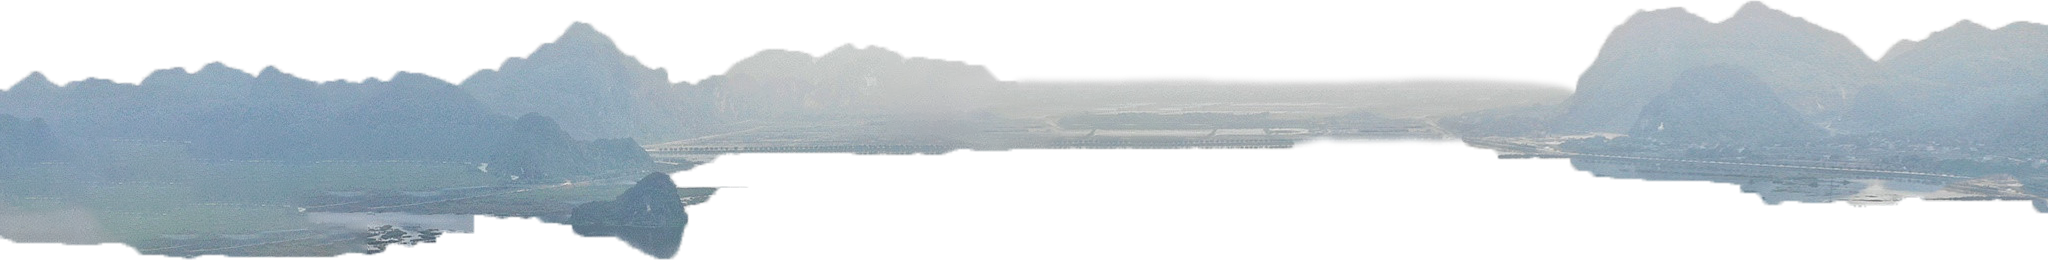
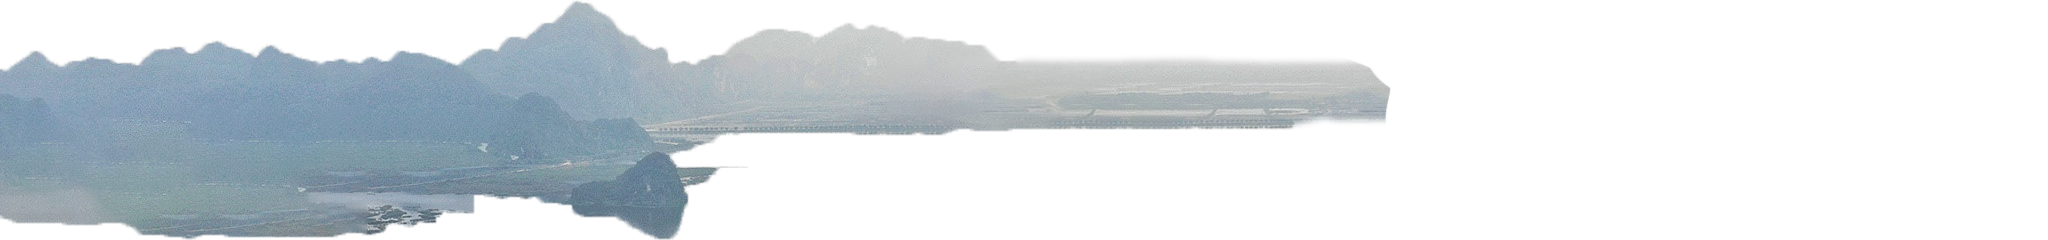
2 and 6

diff --git a/Tour-De-Viet/src/data.js b/Tour-De-Viet/src/data.js
@@ -1,0 +1,49 @@
+import bg_6 from './assets/6/background.png';
+import f1_6 from './assets/6/front1.png';
+import f2_6 from './assets/6/front2.png';;
+import f3_6 from './assets/6/front3.png';
+import f4_6 from './assets/6/front4.png';
+import l1_6 from './assets/6/left1.png';
+import l2_6 from './assets/6/left2.png';
+import b1_6 from './assets/6/back1.png';
+import b2_6 from './assets/6/back2.png';
+import r1_6 from './assets/6/right1.png';
+import bg_2 from './assets/2/background.png';
+import l1_2 from './assets/2/left1.png';
+import l2_2 from './assets/2/left2.png';
+import l3_2 from './assets/2/left3.png';
+import l4_2 from './assets/2/cloud.png';
+import ar_2 from './assets/2/arr.png';
+import f1_2 from './assets/2/front1.png';
+import r1_2 from './assets/2/right1.png';
+import r2_2 from './assets/2/right2.png';
+import r3_2 from './assets/2/right3.png';
+export const arr = [
+    [
+        { src: bg_6, alt: "bg", rotation: "0",    speedx: "0",    speedy: "0",    speedz: "0",    w:'2800px', z: '1', ctop: 'calc(50%)',  cleft: 'calc(50%)'},
+        { src: f1_6, alt: "f1", rotation: "0.1",  speedx: "0.03", speedy: "0.02", speedz: "0.05",             z: '6', ctop: 'calc(50% + 60px)', cleft: 'calc(50% + 120px )' },
+        { src: f2_6, alt: "f2", rotation: "0",    speedx: "0.01", speedy: "0.01", speedz: "0.01",             z: '5', ctop: 'calc(50% + 250px)', cleft: 'calc(50% - 60px)'},
+        { src: f3_6, alt: "f3", rotation: "0.01", speedx: "0.02", speedy: "0.02", speedz: "0.07",             z: '4', ctop: 'calc(50% + 210px)', cleft: 'calc(50% - 60px)' },
+        { src: f4_6, alt: "f4", rotation: "0",    speedx: "0.01", speedy: "0.01", speedz: "0.01",             z: '4', ctop: 'calc(50% + 230px)', cleft: 'calc(50% + 400px)'},
+        { src: l1_6, alt: "l1", rotation: "0.01", speedx: "0.02", speedy: "0.01", speedz: "0.09",             z: '4', ctop: 'calc(50% - 60px)', cleft: 'calc(50%  - 950px)' },
+        { src: l2_6, alt: "l2", rotation: "0.01", speedx: "0.02", speedy: "0.01", speedz: "0.09",             z: '3', ctop: 'calc(50% - 100px)',cleft: 'calc(50% - 900px)'},
+        { src: b1_6, alt: "b1", rotation: "0",  speedx: "0.01", speedy: "0.01", speedz: "0.02",               z: '2', ctop: 'calc(50% - 180px)', cleft: 'calc(50% - 40px)' },
+        { src: b2_6, alt: "b2", rotation: "0",  speedx: "0.01", speedy: "0.01", speedz: "0.02",    w:'1200px',h:'200px',           z: '1', ctop: 'calc(50% - 210px)', cleft: 'calc(50% + 600px)' },
+        { src: r1_6, alt: "r1", rotation: "0.0",  speedx: "0.015",speedy: "0.01", speedz: "0.09",             z: '1', ctop: 'calc(50% - 100px)', cleft: 'calc(50% + 925px)' },
+    ],
+    [
+        { src: bg_2, alt: "bg", rotation: "0",    speedx: "0",    speedy: "0",    speedz: "0",                 z: '1', ctop: 'calc(50% - 120px)', cleft: 'calc(50%)'},
+        { src: l1_2, alt: "l1", rotation: "0.1",  speedx: "0.01", speedy: "0.02", speedz: "0.05",  w:'750px',  z: '4', ctop: 'calc(50% + 70px)',  cleft: 'calc(50% - 750px )' },
+        { src: l2_2, alt: "l2", rotation: "0",    speedx: "0.01", speedy: "0.01", speedz: "0.01",  w:'30px',   z: '6', ctop: 'calc(50% + 450px)', cleft: 'calc(50% - 670px)'},
+        { src: l3_2, alt: "l3", rotation: "0.01", speedx: "0.02", speedy: "0.02", speedz: "0.07",  w:'400px',  z: '4', ctop: 'calc(50% - 150px)', cleft: 'calc(50% - 900px)' },
+        { src: l4_2, alt: "l4", rotation: "0.2",    speedx: "0.04", speedy: "0.02", speedz: "0.02",            z: '2', ctop: 'calc(50% - 70px)',  cleft: 'calc(50% + 20px)'},
+        { src: ar_2, alt: "ar", rotation: "0.01", speedx: "0.02", speedy: "0.01", speedz: "0.09",              z: '3', ctop: 'calc(50% + 260px)', cleft: 'calc(50%  )' },
+        { src: f1_2, alt: "f1", rotation: "0",    speedx: "0.01", speedy: "0.01", speedz: "0.01",  w:'2200px', z: '5', ctop: 'calc(50% + 320px)', cleft: 'calc(50% - 5px)' },
+        { src: r1_2, alt: "r1", rotation: "0.01", speedx: "0.02", speedy: "0.01", speedz: "0.09",  w:'400px',  z: '5', ctop: 'calc(50% + 100px)', cleft: 'calc(50% + 900px)'},
+        { src: r2_2, alt: "r2", rotation: "0",  speedx: "0.01", speedy: "0.01", speedz: "0.02",    w:'200px',  z: '5', ctop: 'calc(50% + 350px)', cleft: 'calc(50% + 250px)' },
+        { src: r2_2, alt: "r2", rotation: "0",  speedx: "0.01", speedy: "0.01", speedz: "0.02",    w:'200px',  z: '2', ctop: 'calc(50% + 350px)', cleft: 'calc(50% - 1095px)' },
+        { src: r2_2, alt: "r2", rotation: "0",  speedx: "0.01", speedy: "0.01", speedz: "0.02",    w:'200px',  z: '2', ctop: 'calc(50% + 350px)', cleft: 'calc(50% + 1040px)' },
+        { src: r3_2, alt: "r3", rotation: "0",  speedx: "0.01", speedy: "0.01", speedz: "0.02",    w:'850px',  z: '3', ctop: 'calc(50% + 40px )', cleft: 'calc(50% + 600px)' },
+      ]
+
+];

diff --git a/Tour-De-Viet/src/Parallax.jsx b/Tour-De-Viet/src/Parallax.jsx
@@ -1,34 +1,59 @@
 import './Parallax.css';
-import bg from './assets/background.png';
-import flight from './assets/flight.png';
-import f1 from './assets/fog1.png';
-import f2 from './assets/fog2.png';
-import l1 from './assets/left1.png';
-import l2 from './assets/left2.png';
-import l3 from './assets/left3.png';
-import r1 from './assets/right1.png';
-import r2 from './assets/right2.png';
-import r3 from './assets/right3.png';
+import bg from './assets/3/background.png';
+import f1 from './assets/3/front1.png';
+import f2 from './assets/3/front2.png';
+import f3 from './assets/3/front3.png';
+import f4 from './assets/3/front4.png';
+import o1 from './assets/3/object.png';
 
-function ParallaxPage() {
+
+export default function ParallaxPage() {
+  const arr = [
+    { src: bg, alt: "bg", rotation: "0",    speedx: "0",    speedy: "0",    speedz: "0",     width:'2800px',z: '1',  ctop: 'calc(50% )', cleft: 'calc(50% )'},
+    { src: f1, alt: "f1", rotation: "0.1",  speedx: "0.01", speedy: "0.02", speedz: "0.05",  width:'100px',z: '6',  ctop: 'calc(50% + 150px)', cleft: 'calc(50% )'},
+    { src: f2, alt: "f2", rotation: "0",    speedx: "0.01", speedy: "0.01", speedz: "0.01",  width:'100px',z: '5',  ctop: 'calc(50% + 150px)', cleft: 'calc(50% )'},
+    { src: f3, alt: "f3", rotation: "0.01", speedx: "0.02", speedy: "0.02", speedz: "0.07",  width:'100px',z: '4',  ctop: 'calc(50% + 150px)', cleft: 'calc(50% )'},
+    { src: f4, alt: "f4", rotation: "0.2",  speedx: "0.04", speedy: "0.02", speedz: "0.02",  width:'1000px',z: '3', ctop: 'calc(50% + 150px)', cleft: 'calc(50% )'},
+    { src: o1, alt: "o1", rotation: "0.01", speedx: "0.02", speedy: "0.02", speedz: "0.07",  width:'100px',z: '2',  ctop: 'calc(50% + 150px)', cleft: 'calc(50% )'},
+  ];
   return (
     <main>
-      <img src={bg} alt="Background" data-rotation="0" data-speedx="0.02" data-speedy="0.11" data-speedz="0" className="parallax bg-img" />
-      <img src={f1} alt="Fog 1" data-rotation="0" data-speedx="0.02" data-speedy="0.11" data-speedz="0" className="parallax bg-fog1" />
-      <img src={flight} alt="Flight" data-rotation="0.1" data-speedx="0.195" data-speedy="0.06" data-speedz="0.11" className="parallax tw-flight" />
-      <img src={f2} alt="Fog 2" data-rotation="0" data-speedx="0.03" data-speedy="0.12" data-speedz="0" className="parallax bg-fog2" />
-      <div className="text parallax" data-rotation="0.3" data-speedx="0.07" data-speedy="0.19" data-speedz="0.3">
-        <h2>Hello World</h2>
-        <h1>This is parallax</h1>
+      {arr.map((element, index) => (
+        <ParallaxElement key={index} {...element} />
+      ))}
+      <div className="text parallax" data-rotation="0.3" data-speedx="0.07" data-speedy="0.19" data-speedz="0.3" 
+      style={{
+        position: 'absolute',
+        zIndex: 2,
+        top: 'calc(50% -  20px)',
+        left: 'calc(50% + 120px)',
+        textAlign: 'center',
+        textTransform: 'uppercase',
+        color: '#000',
+      }}>
+        <h2 style={{fontWeight:'100', fontSize:'3em' }}>Welcome to</h2>
+        <h1 style={{fontWeight:'800', fontSize:'7em', lineHeight:'0.99'}}>ha tay</h1>
       </div>
-      <img src={r3} alt="Right 3" data-rotation="0.1" data-speedx="0.06" data-speedy="0.02" data-speedz="0.12" className="parallax tw-right3" />
-      <img src={r1} alt="Right 1" data-rotation="0.2" data-speedx="0.04" data-speedy="0.06" data-speedz="0.06" className="parallax tw-right1" />
-      <img src={r2} alt="Right 2" data-rotation="0.4" data-speedx="0.05" data-speedy="0.01" data-speedz="0.09" className="parallax tw-right2" />
-      <img src={l3} alt="Left 3" data-rotation="0.5" data-speedx="0.07" data-speedy="0.02" data-speedz="0.13" className="parallax tw-left3" />
-      <img src={l2} alt="Left 2" data-rotation="0.1" data-speedx="0.05" data-speedy="0.01" data-speedz="0.08" className="parallax tw-left2" />
-      <img src={l1} alt="Left 1" data-rotation="0.2" data-speedx="0.03" data-speedy="0.01" data-speedz="0.05" className="parallax tw-left1" />
     </main>
   )
 }
 
-export default ParallaxPage
+function ParallaxElement({ src, alt, rotation, speedx, speedy, speedz, w, z, ctop, cleft,h}) {
+  return (
+    <img src={src} 
+    alt={alt} data-rotation={rotation} 
+    data-speedx={speedx} 
+    data-speedy={speedy} 
+    data-speedz={speedz} 
+    className={`parallax ${alt}`} 
+    style={{ 
+      position: 'absolute', 
+      zIndex: z, 
+      top: ctop, 
+      left: cleft, 
+      width:w,
+      height:h, 
+      objectFit:'fill'
+      }} />
+  );
+}

diff --git a/Tour-De-Viet/src/Parallax.css b/Tour-De-Viet/src/Parallax.css
@@ -5,93 +5,18 @@ main{
     overflow: hidden;
     display: flex;
 }
-.parallax{
-    pointer-events: none;
-}
 
-.bg-img{
-    position: absolute;
-    width: 2800px;
-    z-index: 1;
-    top: calc(50%);
-    left: calc(50%);
-}
-.bg-fog1{
-    position: absolute;
-    width: 2800px;
-    top: calc(50%);
-    left: calc(50%);
-    z-index: 4;
-}
-.bg-fog2{
-    position: absolute;
-    width: 2800px;
-    top: calc(50%);
-    left: calc(50%);
-    z-index: 2;
-}
-.tw-right3{
-    position: absolute;
-    top: calc(50% + 250px);
-    left: calc(50% + 200px);
-    z-index: 9;
-}
-.tw-right2{
-    position: absolute;
-    top: calc(50% + 300px);
-    left: calc(50% + 920px);
-    z-index: 2;
-}
-.tw-right1{
-    position: absolute;
-    top: calc(50% + 200px);
-    left: calc(50% + 800px);
-    z-index: 2;
-}
-.tw-left3{
-    position: absolute;
-    top: calc(50% + 425px);
-    left: calc(50% - 200px);
-    z-index: 2;
-}
-.tw-left2{
-    position: absolute;
-    top: calc(50% + 350px);
-    left: calc(50% - 600px);
-    z-index: 2;
-}
-.tw-left1{
-    position: absolute;
-    top: calc(50% + 300px);
-    left: calc(70px);
-    z-index: 2;
-}
-.tw-flight{
-    position: absolute;
-    top: calc(50% - 250px);
-    left: calc(50% - 300px);
-    z-index: 10;
-}
 
-.text{
-    position: absolute;
-    z-index: 9;
-    top: calc(50% - 120px);
-    left: calc(50%);
-    text-align: center;
-    text-transform: uppercase;
-    color: #000;
-}
 
-.text h2{
+/* .text h2{
     font-weight: 100;
     font-size: 3em;
 }
 .text h1{
     font-weight: 800;
-    font-size: 5.5em;
+    font-size: 7em;
     line-height: 0.99;
-}
+} */
 .parallax {
     pointer-events: none;
     transition: 0.45s cubic-bezier(0.075, 0.49, 0.32, 1);

diff --git a/Tour-De-Viet/src/main.jsx b/Tour-De-Viet/src/main.jsx
@@ -18,24 +18,21 @@ ReactDOM.createRoot(document.getElementById('parallaxpage')).render(
 
 document.addEventListener('mousemove', parallax);
 
-let speedx = 0, speedy = 0, speedz = 0;
-let rotateDeg = 0;
-let rote = 0;
-
 function parallax(e) {
   this.querySelectorAll('.parallax').forEach(layer => {
-    
-    speedx = layer.dataset.speedx;
-    speedy = layer.dataset.speedy;
-    speedz = layer.dataset.speedz;
-    rote = layer.dataset.rotation;
-    
+
     const x = e.pageX - window.innerWidth /2;
     const y = e.pageY - window.innerHeight/2;
+    
+    let speedx = layer.dataset.speedx;
+    let speedy = layer.dataset.speedy;
 
-    rotateDeg = (x / (window.innerWidth/2))*20;
     let isInLeft = parseFloat(getComputedStyle(layer).left) < window.innerWidth/2 ? 1:-1;
     let zValue = e.pageX - parseFloat(getComputedStyle(layer).left) * isInLeft * 0.1;
+    let speedz = layer.dataset.speedz;
+    let rote = layer.dataset.rotation;
+
+    let rotateDeg = (x / (window.innerWidth/2))*10;
     
 
     layer.style.transform = `translateX(calc(-50% + ${-x * speedx}px)) translateY(calc(-50% + ${y * speedy}px)) 
